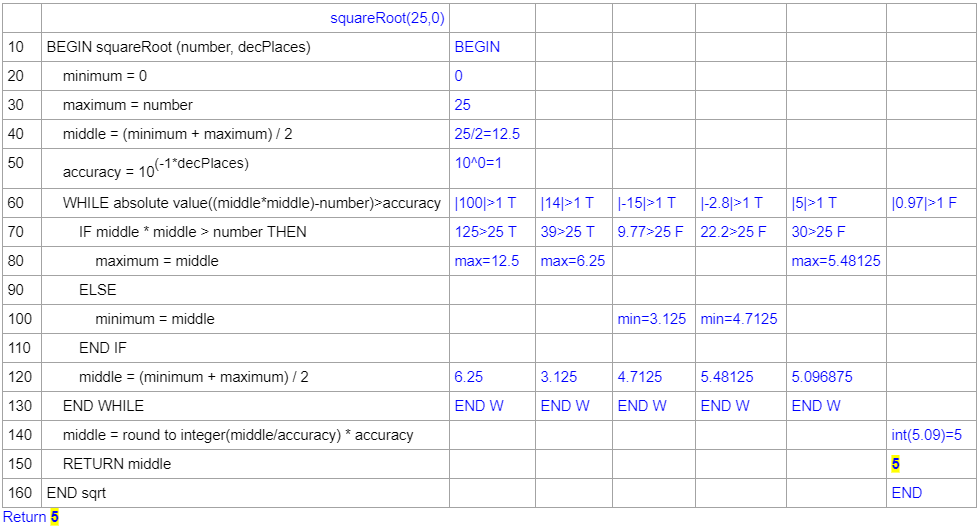
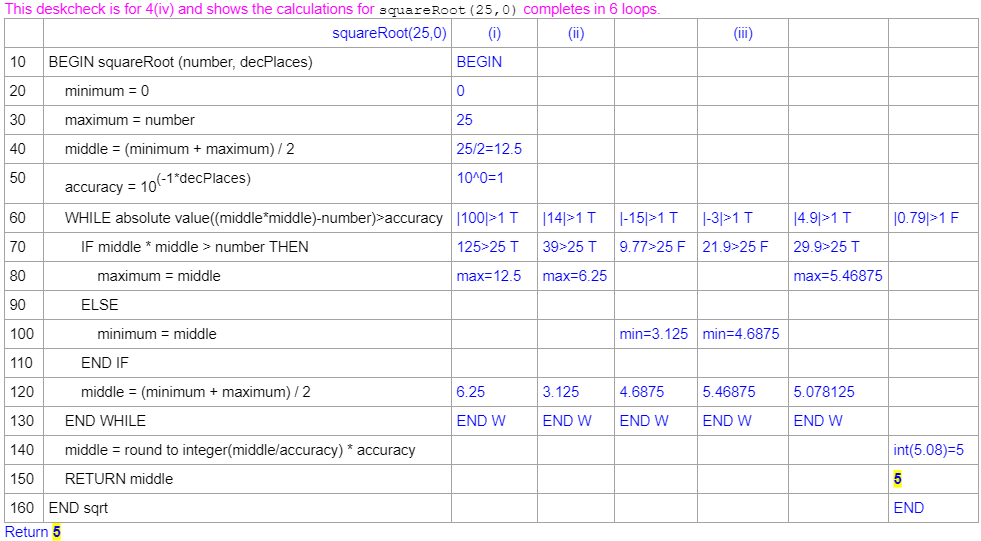
Adjusted loop numbers and new image for root 25 desk check.

Changed region(s): [[0.0, 0.0, 1.0, 1.0]]

diff --git a/index.html b/index.html
@@ -93,6 +93,7 @@
             <td>.py file <a href="https://github.com/bwattle/SquareRoot/releases/download/v1.01-Py/SqRoot-101.py"
                 title="v1.01 Python file" target="_blank">v1.01</a>
                 <br />
+                <br />
                 code <a href="https://github.com/bwattle/SquareRoot/blob/master/Py/SqRoot-101.py"
                     title="v1.01 Python code online" target="_blank">v1.01</a>
             </td>
@@ -101,7 +102,7 @@
                 zip of exe file <a href="https://github.com/bwattle/SquareRoot/releases/download/v1.01-Pas/SqRoot-Pas-v101.zip"
                     title="v1.01 Pascal exe" target="_blank">v1.01</a><br />
                 Declarations on separate lines<br />
-                (Edited with <a href="https://sourceforge.net/projects/pascalxe/">Pascal XE </a>)
+                (Edited with <a href="https://sourceforge.net/projects/pascalxe/">Pascal XE</a>)
                 <br />
                 code <a href="https://github.com/bwattle/SquareRoot/blob/master/Pas/SqRoot-v101.pas"
                     title="v1.01 Pascal code online" target="_blank">v1.01</a> </td>

diff --git a/JS/SqRoot-v102.html b/JS/SqRoot-v102.html
@@ -15,7 +15,7 @@
             var maximum = number;
             var middle = (minimum + maximum) / 2;
             var accuracy = Math.pow(10, (-1 * decPlaces));
-            var loopNum = 1;
+            var loopNum = 0;
             var strLoopTotals = "Loop 1, middle = " + middle;
             while (Math.abs((middle * middle) - number) > accuracy) {
                 if (middle * middle > number) {
@@ -54,6 +54,6 @@
     <b><span style="color: red">If there are extra decimal places, it's because floating point decimals are NOT exact! </span></b><br />    
     <br />
     The iterations of this calculation are:<br />
-    <textarea id="txtIterations" rows="30" cols="50"></textarea><br />
+    <textarea id="txtIterations" rows="30" cols="70"></textarea><br />
 </body>
 </html>

diff --git a/JS/SqRoot-v103.html b/JS/SqRoot-v103.html
@@ -12,7 +12,7 @@
             var maximum = number;
             var middle = (minimum + maximum) / 2;
             var accuracy = Math.pow(10, (-1 * decPlaces));
-            var loopNum = 1;
+            var loopNum = 0;
             var strLoopTotals = "Loop 1, middle = " + middle;
             while (Math.abs((middle * middle) - number) > accuracy) {
                 if (middle * middle > number) {
@@ -52,6 +52,6 @@
     <textarea id="txtResult" rows="1" cols="20"></textarea><br />
     <br />
     The iterations of this calculation are:<br />
-    <textarea id="txtIterations" rows="30" cols="50"></textarea><br />
+    <textarea id="txtIterations" rows="30" cols="70"></textarea><br />
 </body>
 </html>
